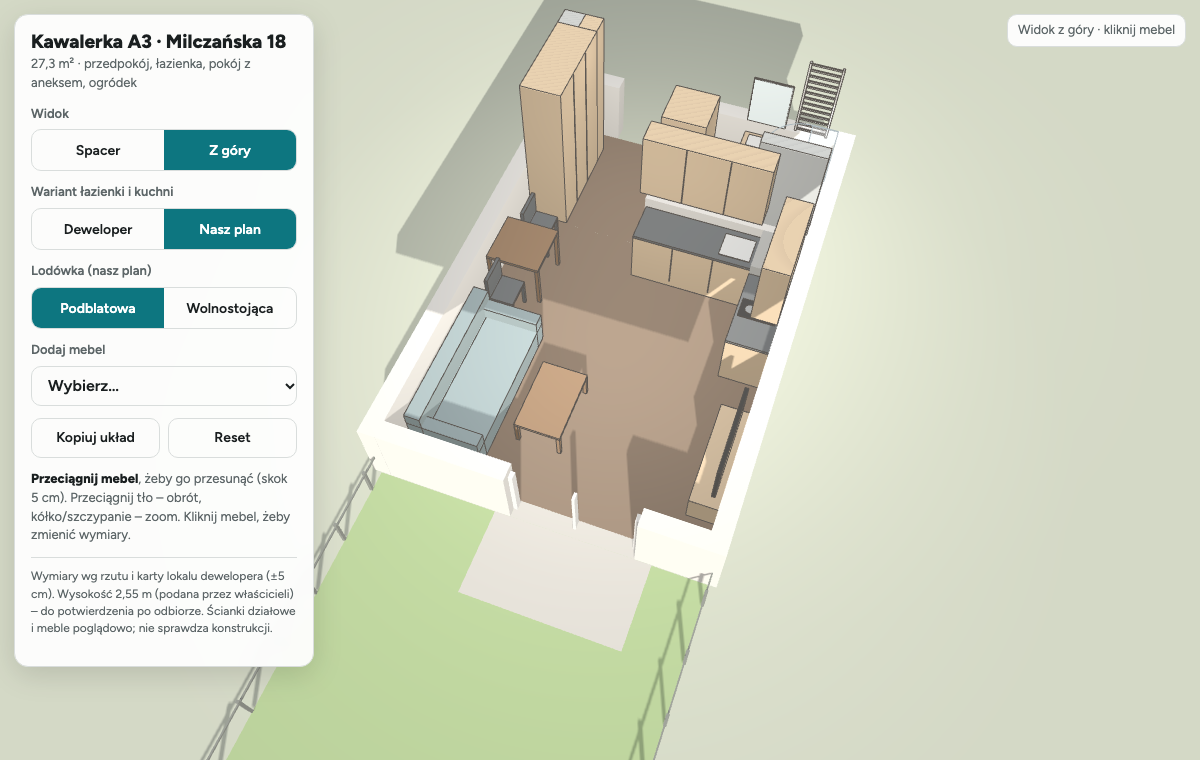
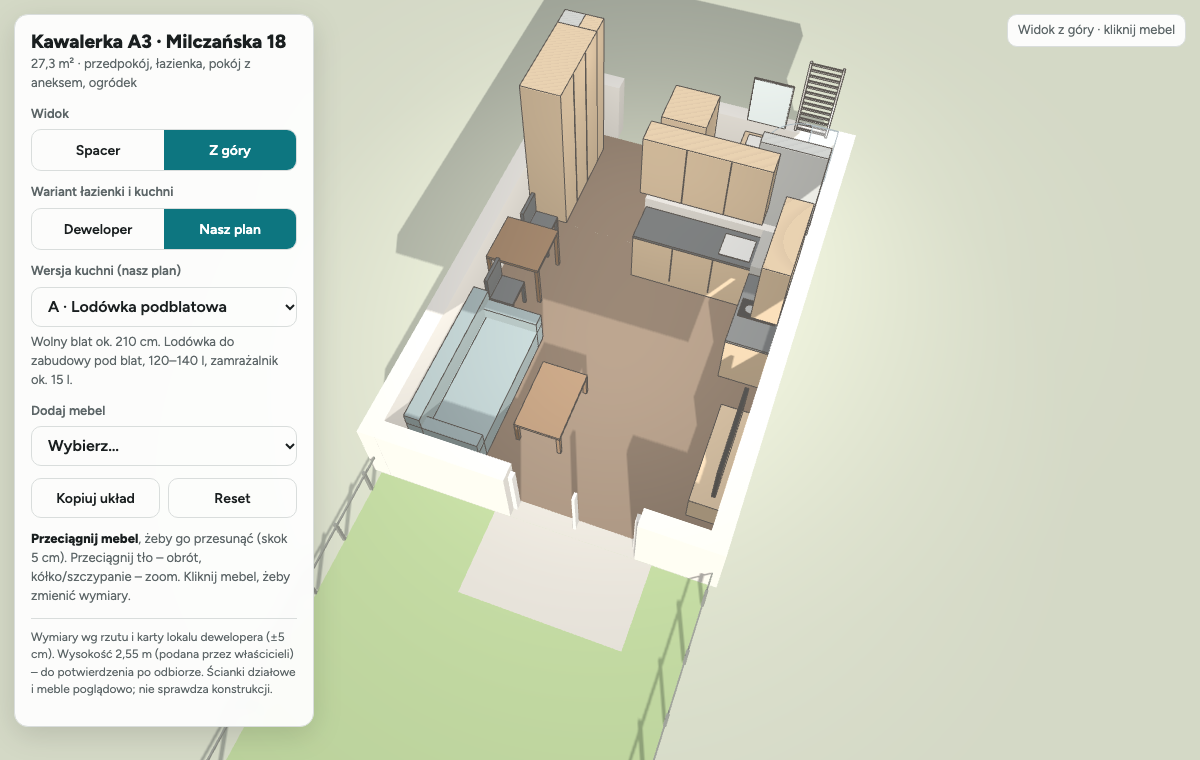
Dodanie version picker

Changed region(s): [[0.0, 0.3329, 0.2775, 0.9684]]

diff --git a/index.html b/index.html
@@ -60,8 +60,9 @@ button:focus-visible,select:focus-visible,input:focus-visible{outline:2px solid 
  <div class="seg" id="mode"><button data-m="walk" class="on">Spacer</button><button data-m="top">Z góry</button></div>
  <div class="lbl">Wariant łazienki i kuchni</div>
  <div class="seg" id="bath"><button data-v="dev">Deweloper</button><button data-v="nasz" class="on">Nasz plan</button></div>
- <div id="frBox"><div class="lbl">Lodówka (nasz plan)</div>
- <div class="seg" id="fridge"><button data-f="pod" class="on">Podblatowa</button><button data-f="wolna">Wolnostojąca</button></div></div>
+ <div id="frBox"><div class="lbl"><label for="fridge">Wersja kuchni (nasz plan)</label></div>
+ <select id="fridge"></select>
+ <p class="help" id="frDesc" style="margin-top:6px"></p></div>
  <div class="lbl">Dodaj mebel</div>
  <select id="add"><option value="">Wybierz…</option></select>
  <div id="sel" hidden>
@@ -157,9 +158,13 @@ R('nGP','Szafki wiszące 100 cm','upper',1.9,3.65,2.07,2.42,1,COL.oak,'nasz');RX
 R('nLod','Lodówka wolnostojąca 60×145','fridge',1.9,2.5,2.07,2.69,1.45,COL.white,'nasz');RX({fr:'wolna'});
 R('nBlat1','Blat: zmywarka + zlew','sinkc',2.52,3.65,2.07,2.67,.9,COL.oak,'nasz');RX({fr:'wolna',mods:[.6,.53]});
 R('nGW','Szafki wiszące 100 cm','upper',1.9,3.65,2.07,2.42,1,COL.oak,'nasz');RX({fr:'wolna',y:UY,mods:[.62,.6,.53]});
+// c) słupek od wejścia: lodówka do zabudowy (wnęka 140) + szafka do sufitu; podział frontów na wys. UY = linia dołu szafek wiszących
+R('nSlup','Słupek: lodówka do zabudowy 140 + szafka','slupek',1.9,2.5,2.07,2.67,H,COL.oak,'nasz');RX({fr:'slupek',split:[.1,UY]});
+R('nBlatS','Blat: zmywarka + zlew','sinkc',2.5,3.65,2.07,2.67,.9,COL.oak,'nasz');RX({fr:'slupek',mods:[.6,.55],sink:[.65,1.1]});
+R('nGS','Szafki wiszące 100 cm','upper',2.5,3.65,2.07,2.42,1,COL.oak,'nasz');RX({fr:'slupek',y:UY,mods:[.6,.55]});
 // ściana od RTV: 3 moduły po 40 cm
 R('nBlat2','Blat z płytą 2-palnikową (3×40)','cook',3.65,4.25,2.76,3.96,.9,COL.oak,'nasz');RX({hob:2,mods:[.4,.4,.4]});
-R('nG2','Szafki wiszące 100 cm (3×40)','upper',3.9,4.25,2.76,3.96,1,COL.oak,'nasz');RX({y:UY,mods:[.4,.4,.4]});
+R('nG2v2','Szafki wiszące 100 cm (2×60)','upper',3.9,4.25,2.76,3.96,1,COL.oak,'nasz');RX({y:UY,mods:[.6,.6]});
 // pokój
 R('stol','Stół','table',0,.8,2.83,3.63,.75,COL.wood);
 R('kr1','Krzesło','chair',.19,.59,2.35,2.79,.85,COL.dark);
@@ -181,21 +186,28 @@ R('nWc','WC podwieszane','wc',2.82,3.22,1.22,1.75,.4,COL.white,'nasz');
 R('nSz','Szafa z pralką (do sufitu)','wardrobe',2,2.62,1.3,1.95,H,COL.oak,'nasz');
 R('nLu','Lustro 60×80','mirror',2.85,3.45,0,.02,.8,0xc9d6dc,'nasz');DEFAULT[DEFAULT.length-1].y=1.1; // nad umywalką, dół 110 cm
 R('nDr','Grzejnik drabinkowy 50×125','ladder',3.59,4.09,0,.05,1.25,0xf4f4f2,'nasz');DEFAULT[DEFAULT.length-1].y=1.15; // 115 cm nad podłogą, 16 cm od prawej ściany
+// wersje kuchni „Nasz plan” (lista rozwijana). Nowa wersja = nowy wpis + meble z polem fr:'<id>'
+const KITCHEN=[
+ {id:'pod',name:'A · Lodówka podblatowa',desc:'Wolny blat ok. 210 cm. Lodówka do zabudowy pod blat, 120–140 l, zamrażalnik ok. 15 l.'},
+ {id:'wolna',name:'B · Wolnostojąca 60×145',desc:'Wolny blat ok. 150 cm. Ok. 200 l. Biała bryła przerywa linię frontów.'},
+ {id:'slupek',name:'C · Słupek z lodówką 140',desc:'Wolny blat ok. 150 cm. Lodówka do zabudowy (wnęka 140), ok. 200 l; podział frontów na 155 cm = linia szafek wiszących.'}];
 const CATALOG=[['Łóżko 160×200','bed',1.6,2.1,.5,COL.blue],['Łóżko 140×200','bed',1.4,2.1,.5,COL.blue],['Sofa rozkładana 200','sofa',2,.95,.85,COL.fabric],['Fotel','chair',.8,.8,.85,COL.fabric],['Biurko 120×60','table',1.2,.6,.75,COL.wood],['Stół 120×80','table',1.2,.8,.75,COL.wood],['Krzesło','chair',.44,.44,.85,COL.dark],['Szafa 100×60','wardrobe',1,.6,2.2,COL.oak],['Regał 80×35','wardrobe',.8,.35,1.9,COL.oak],['Komoda 120×45','tall',1.2,.45,.85,COL.oak],['Wyspa / barek 120×60','tall',1.2,.6,.95,COL.oak],['Dywan 160×230','rug',1.6,2.3,.01,0xc9c1b4],['Roślina','plant',.45,.45,1.3,0x4f7a43]];
 const addSel=document.getElementById('add');
+const frSel=document.getElementById('fridge');frSel.innerHTML=KITCHEN.map(k=>`<option value="${k.id}">${k.name}</option>`).join('');
 addSel.innerHTML+=CATALOG.map((c,i)=>`<option value="${i}">${c[0]}</option>`).join('');
 
 let state={bath:'nasz',fridge:'pod',items:JSON.parse(JSON.stringify(DEFAULT))};
-const KEY='a3-milczanska-uklad-v7';
+const KEY='a3-milczanska-uklad-v8';
 try{let s=JSON.parse(localStorage.getItem(KEY));
- if(!s){s=JSON.parse(localStorage.getItem('a3-milczanska-uklad-v6'))||JSON.parse(localStorage.getItem('a3-milczanska-uklad-v5'))||JSON.parse(localStorage.getItem('a3-milczanska-uklad-v4'))||JSON.parse(localStorage.getItem('a3-milczanska-uklad-v3'))||JSON.parse(localStorage.getItem('a3-milczanska-uklad-v2'));
+ if(!s){s=JSON.parse(localStorage.getItem('a3-milczanska-uklad-v7'))||JSON.parse(localStorage.getItem('a3-milczanska-uklad-v6'))||JSON.parse(localStorage.getItem('a3-milczanska-uklad-v5'))||JSON.parse(localStorage.getItem('a3-milczanska-uklad-v4'))||JSON.parse(localStorage.getItem('a3-milczanska-uklad-v3'))||JSON.parse(localStorage.getItem('a3-milczanska-uklad-v2'));
   if(!s){s=JSON.parse(localStorage.getItem('a3-milczanska-uklad-v1'));
    // v1 -> v2: zostają pozycje, kolory domyślnych mebli z nowej palety (kontrast)
    if(s&&s.items)s.items.forEach(it=>{const d=DEFAULT.find(x=>x.id===it.id);if(d)it.color=d.color})}
-  // starsze -> v7: „Nasz plan” (łazienka + kuchnia) z DEFAULT, wariant domyślnych mebli z DEFAULT; reszta mebli zostaje na swoich miejscach
+  // starsze -> v8: „Nasz plan” (łazienka + kuchnia) z DEFAULT, wariant domyślnych mebli z DEFAULT; reszta mebli zostaje na swoich miejscach
   if(s&&s.items)s.items.forEach(it=>{const d=DEFAULT.find(x=>x.id===it.id);if(d)it.v=d.v});
   if(s&&s.items)s.items=s.items.filter(it=>it.v!=='nasz').concat(JSON.parse(JSON.stringify(DEFAULT.filter(d=>d.v==='nasz'))))}
- if(s&&s.items)state=s}catch(e){}
+ if(s&&s.items){DEFAULT.forEach(d=>{if(!s.items.some(i=>i.id===d.id))s.items.push(JSON.parse(JSON.stringify(d)))}); // nowe meble z DEFAULT (np. nowa wersja kuchni)
+  if(!KITCHEN.some(k=>k.id===s.fridge))s.fridge='pod';state=s}}catch(e){}
 const save=()=>{try{localStorage.setItem(KEY,JSON.stringify(state))}catch(e){}};
 
 const furn=new THREE.Group();scene.add(furn);
@@ -213,6 +225,10 @@ function build(it){
   case'chair':b(0,w,.42,.46,0,d);[[0,0],[w-.04,0],[0,d-.04],[w-.04,d-.04]].forEach(([x,z])=>b(x,x+.04,0,.42,z,z+.04));if(w<d)b(0,.05,.46,h,0,d);else b(0,w,.46,h,0,.05);break;
   case'wardrobe':b(0,w,0,h,0,d);seams(.02,h-.02);break;
   case'tall':b(0,w,0,h,0,d);break;
+  case'slupek':{const sp=it.split||[.1];b(0,w,sp[0],h,0,d);b(0,w,0,sp[0],0,d-.05,M(COL.dark)); // cokół cofnięty 5 cm
+   const sm=M(0x4a3a2c),zf=w>=d?d:0;sp.slice(1).forEach(y=>b(.01,w-.01,y-.004,y+.004,zf-.002,zf+.003,sm));
+   const y1=sp[1]||h;b(w-.08,w-.06,y1-.45,y1-.1,d,d+.02,M(COL.grey)); // uchwyt frontu lodówki
+   b(w-.08,w-.06,y1+.05,y1+.3,d,d+.02,M(COL.grey))}break;
   case'upper':{const y=it.y!=null?it.y:(it.id==='gorne'?1.45:0);b(0,w,y,y+h,0,d);seams(y+.01,y+h-.01)}break;
   case'fridge':b(0,w,0,h,0,d);b(0,w,h*.62-.004,h*.62+.004,d,d+.003,M(COL.grey));b(w*.82,w*.86,h*.3,h*.55,d,d+.03,M(COL.grey));b(w*.82,w*.86,h*.7,h*.9,d,d+.03,M(COL.grey));break;
   case'sinkc':{b(0,w,0,h-.04,0,d);seams(.1,h-.05);b(0,w,h-.04,h,0,d,M(COL.top));const[s0,s1]=it.sink||[w*.55,w*.9];b(s0,s1,h,h+.01,.1,d-.1,M(0xd8dcdd))}break;
@@ -267,9 +283,9 @@ function setMode(m){mode=m;document.querySelectorAll('#mode button').forEach(b=>
 document.querySelectorAll('#mode button').forEach(b=>b.onclick=()=>setMode(b.dataset.m));
 document.querySelectorAll('#bath button').forEach(b=>b.onclick=()=>{state.bath=b.dataset.v;markBath();if(selId&&!visible(selItem()))selId=null;rebuild()});
 function markBath(){document.querySelectorAll('#bath button').forEach(b=>b.classList.toggle('on',b.dataset.v===state.bath));
- document.querySelectorAll('#fridge button').forEach(b=>b.classList.toggle('on',b.dataset.f===(state.fridge||'pod')));
+ frSel.value=state.fridge||'pod';const k=KITCHEN.find(k=>k.id===frSel.value);document.getElementById('frDesc').textContent=k?k.desc:'';
  document.getElementById('frBox').hidden=state.bath!=='nasz'}
-document.querySelectorAll('#fridge button').forEach(b=>b.onclick=()=>{state.fridge=b.dataset.f;markBath();if(selId&&!visible(selItem()))selId=null;rebuild()});
+frSel.onchange=()=>{state.fridge=frSel.value;markBath();if(selId&&!visible(selItem()))selId=null;rebuild()};
 document.getElementById('toggle').onclick=()=>document.getElementById('panel').classList.toggle('open');
 
 // ---------- zaznaczanie i edycja ----------
@@ -284,7 +300,7 @@ document.getElementById('sDel').onclick=()=>{const it=selItem();if(it){it.hidden
 addSel.onchange=()=>{const c=CATALOG[addSel.value];if(!c)return;const id='u'+Date.now();
  state.items.push({id,name:c[0],kind:c[1],w:c[2],d:c[3],h:c[4],color:c[5],x:2.1,z:4.4,rot:0,v:'all'});selId=id;addSel.value='';setMode('top');rebuild()};
 document.getElementById('reset').onclick=()=>{state={bath:'nasz',fridge:'pod',items:JSON.parse(JSON.stringify(DEFAULT))};selId=null;markBath();rebuild()};
-document.getElementById('copy').onclick=()=>{const txt=JSON.stringify({wariant:state.bath,lodowka:state.bath==='nasz'?(state.fridge||'pod'):undefined,meble:state.items.filter(visible).map(i=>({nazwa:i.name,x_cm:Math.round(i.x*100),z_cm:Math.round(i.z*100),szer:Math.round(i.w*100),gleb:Math.round(i.d*100),wys:Math.round(i.h*100),obrot:i.rot}))});
+document.getElementById('copy').onclick=()=>{const txt=JSON.stringify({wariant:state.bath,kuchnia:state.bath==='nasz'?(KITCHEN.find(k=>k.id===(state.fridge||'pod'))||{}).name:undefined,meble:state.items.filter(visible).map(i=>({nazwa:i.name,x_cm:Math.round(i.x*100),z_cm:Math.round(i.z*100),szer:Math.round(i.w*100),gleb:Math.round(i.d*100),wys:Math.round(i.h*100),obrot:i.rot}))});
  const box=document.getElementById('copybox');box.value=txt;
  navigator.clipboard.writeText(txt).then(()=>{hud.textContent='Układ skopiowany – wklej go w czacie'}).catch(()=>{box.style.display='block';box.select()})};
 

diff --git a/tools/screenshot.py b/tools/screenshot.py
@@ -1,7 +1,7 @@
 """Zrzuty ekranu modelu do sprawdzenia zmian.
 Użycie: pip install playwright && playwright install chromium
         python3 tools/screenshot.py
-Wynik: shots/spacer.png, shots/z_gory.png, shots/z_gory_deweloper.png
+Wynik: shots/spacer.png, shots/z_gory.png, shots/z_gory_slupek.png, shots/z_gory_deweloper.png
 """
 import asyncio, pathlib
 from playwright.async_api import async_playwright
@@ -24,6 +24,10 @@ async def main():
         await pg.click("#mode button[data-m=top]")
         await pg.wait_for_timeout(800)
         await pg.screenshot(path=OUT / "z_gory.png")
+        await pg.select_option("#fridge", "slupek")
+        await pg.wait_for_timeout(800)
+        await pg.screenshot(path=OUT / "z_gory_slupek.png")
+        await pg.select_option("#fridge", "pod")
         await pg.click("#bath button[data-v=dev]")
         await pg.wait_for_timeout(800)
         await pg.screenshot(path=OUT / "z_gory_deweloper.png")

diff --git a/CLAUDE.md b/CLAUDE.md
@@ -48,7 +48,7 @@ na etapie koncepcji, przed decyzjami instalacyjnymi. Interfejs i komentarze po p
 - `build(it)` rysuje mebel wg `kind`: sofa, bed, table, chair, wardrobe, tall, upper, sinkc, cook, tv, sink,
   bath, wc, washer, fridge, shower, showerq (półokrągły, narożnik w lokalnym +x,+z), ladder (grzejnik drabinkowy), mirror (lustro; oba z opcjonalnym `y` = wys. dolnej krawędzi), rug, plant (domyślnie prostopadłościan). Nowy rodzaj = nowy `case`.
 - `CATALOG` – meble do dodania z listy: `[nazwa, kind, w, d, h, kolor]`.
-- Stan zapisuje się w `localStorage` (klucz `a3-milczanska-uklad-v7`; v1–v6 migrują się z zachowaniem pozycji, przy migracji meble łazienki „nasz” biorą się z `DEFAULT`). Po zmianie `DEFAULT` użyj „Reset”
+- Stan zapisuje się w `localStorage` (klucz `a3-milczanska-uklad-v8`; v1–v7 migrują się z zachowaniem pozycji, przy migracji meble łazienki „nasz” biorą się z `DEFAULT`). Po zmianie `DEFAULT` użyj „Reset”
   albo podbij wersję klucza.
 - Sterowanie: Spacer (WASD/strzałki + przeciąganie myszą; telefon: lewa połowa = chodzenie, prawa = rozglądanie),
   Z góry (przeciąganie mebla, skok 5 cm; tło = obrót; kółko/szczypanie = zoom; R = obrót mebla).
@@ -66,9 +66,11 @@ na etapie koncepcji, przed decyzjami instalacyjnymi. Interfejs i komentarze po p
   grzejnik drabinkowy 50×125 na ścianie z umywalką, 115 cm nad podłogą, 16 cm od prawej ściany (x 3,59–4,09; pole `y` = wys. dolnej krawędzi).
   Kielich kanalizacji 110 mm jest w narożniku przy szachcie, a rura do WC idzie w zabudowie ze spadkiem ≥2%.
 - Kuchnia: przełącznik „Wariant łazienki i kuchni” przełącza też kuchnię. „Deweloper” = układ z karty (L: lodówka w zabudowie + zmywarka + zlew pod łazienką, płyta wzdłuż prawej ściany).
-  „Nasz plan” (22.11.2026): drugi przełącznik „Lodówka” (pole `fr` + `state.fridge`): `pod` = jeden blat pod łazienką
-  x 1,90–3,65 (lodówka podblatowa 60 + zmywarka 60 + zlew 55), `wolna` = lodówka wolnostojąca 60×145 + blat zmywarka/zlew x 2,52–3,65;
-  przy ścianie od RTV tylko 3×40 cm (z 2,76–3,96) z płytą 2-palnikową 30×52; szafki wiszące 100 cm, góra pod sufitem (dół H−1 = 1,55 m).
+  „Nasz plan” (22.11.2026): lista rozwijana „Wersja kuchni” (tablica `KITCHEN` = {id,name,desc}; meble wersji mają pole `fr` = id; wybór w `state.fridge`).
+  Nowa wersja = wpis w `KITCHEN` + meble z `fr:'<id>'` (brakujące meble z `DEFAULT` dopisują się do zapisanego stanu przy wczytaniu).
+  `pod` = jeden blat pod łazienką x 1,90–3,65 (lodówka podblatowa 60 + zmywarka 60 + zlew 55), `wolna` = lodówka wolnostojąca 60×145 + blat zmywarka/zlew x 2,52–3,65,
+  `slupek` = słupek do sufitu x 1,90–2,50 (kind `slupek`, pole `split` = wysokości poziomych podziałów: cokół 10 cm, lodówka do zabudowy wnęka 140, podział na 1,55 = dół szafek wiszących) + blat zmywarka/zlew x 2,50–3,65;
+  przy ścianie od RTV dolne 3×40 cm (z 2,76–3,96) z płytą 2-palnikową 30×52, wiszące nad nimi 2×60 cm; szafki wiszące 100 cm, góra pod sufitem (dół H−1 = 1,55 m).
   Linie podziału frontów z pola `mods` (szerokości modułów w m), pozycja zlewu z `sink:[x0,x1]`.
 - Przedpokój „Nasz plan”: szafa do sufitu (z 0,62–2,04) + obudowa GK przewodu kominowego w narożniku przy wejściu
   (x 0–0,32, z 0,32–0,62, wymiar przyjęty, do zmierzenia) z płytką szafką 28 cm przed nią. „Deweloper” = szafa 2,40 m.
